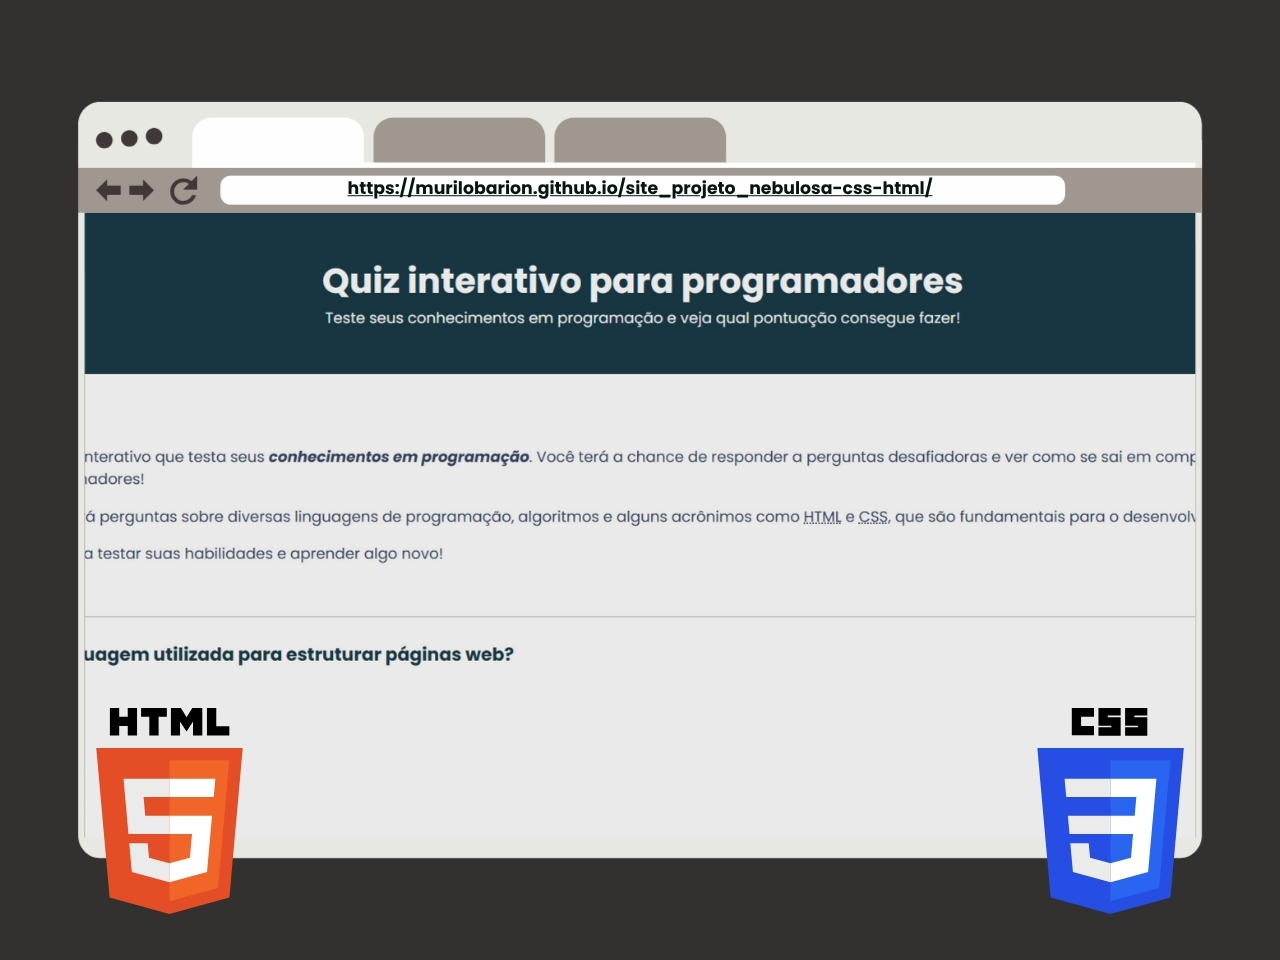
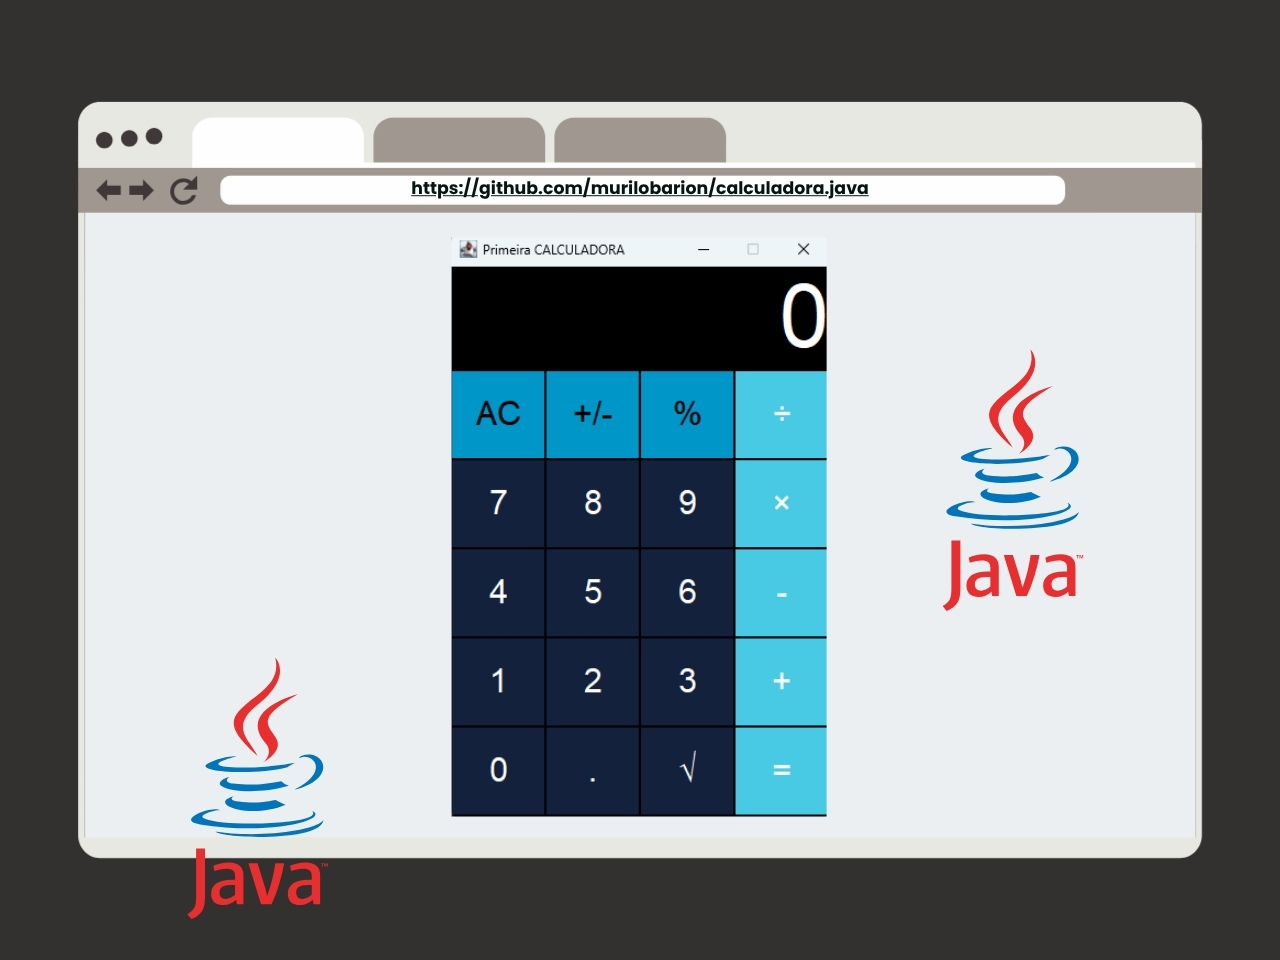
Atualização do portifolio

diff --git a/index.html b/index.html
@@ -15,7 +15,7 @@
 	<body>
 		<header>
 			<!--Barra nav-->
-			<a href="#inicio" class="logo">Murilo.dev</a>
+			<a href="#inicio" class="logo">dev.barion</a>
 			<nav>
 				<ul>
 					<li><a href="#inicio">Home</a></li>
@@ -69,7 +69,7 @@
 					<div class="container-foto">
 						<img
 							class="foto-perfil"
-							src="img/foto1.jpg"
+							src="img/foto.jpg"
 							alt="Foto de perfil de Murilo Pereira Barion"
 						/>
 					</div>
@@ -94,7 +94,7 @@
 						E aí! Sou o Murilo, um entusiasta da tecnologia movido pela curiosidade e pela vontade de transformar ideias em realidade. Encontrei na programação uma forma de unir lógica e criatividade — criando soluções, experimentando possibilidades e aprendendo com os bugs que surgem pelo caminho.
 					</p>
 					<p>
-						Atualmente, dedico-me a aprimorar minhas habilidades em Python, C++ e desenvolvimento web, explorando desde o backend até a construção de interfaces funcionais e modernas. Meu objetivo é evoluir constantemente como desenvolvedor e construir projetos que unam eficiência, inovação e propósito.
+						Atualmente, dedico-me a aprimorar minhas habilidades em Python, Java, C++ e desenvolvimento web, explorando desde o backend até a construção de interfaces funcionais e modernas. Meu objetivo é evoluir constantemente como desenvolvedor e construir projetos que unam eficiência, inovação e propósito.
 					</p>
 					<a
 						href="pdf/meu_curriculo.pdf"
@@ -119,6 +119,10 @@
 					<article class="card-habilidade">
 						<i class="fab fa-python icone"></i>
 						<h3>Python</h3>
+					</article>
+					<article class="card-habilidade">
+						<i class="fab fa-java icone"></i>
+						<h3>Java</h3>
 					</article>
 					<article class="card-habilidade">
 						<i class="fab fa-html5 icone"></i>
@@ -159,10 +163,10 @@
     <div class="container-projetos">
         
         <article class="card-projeto">
-            <img src="img/projeto1.jpg" alt="Preview do projeto Relogio Digital" />
+            <img src="img/projeto1.jpg" alt="Preview do Projeto M.U.R.I.L.O." />
             <div class="overlay-projeto"> 
-                <h3>Relogio Digital</h3>
-                <a href="https://murilobarion.github.io/relogio_digital-html-css/" target="_blank" class="btn-projeto">Ver Projeto</a>
+                <h3>Projeto M.U.R.I.L.O.</h3>
+                <a href="https://projetomurilo.space/" target="_blank" class="btn-projeto">Ver Projeto</a>
             </div>
         </article>
 
@@ -175,10 +179,10 @@
         </article>
 
         <article class="card-projeto">
-            <img src="img/projeto3.jpg" alt="Preview do projeto Quiz Programadores" />
+            <img src="img/projeto3.jpg" alt="Preview do projeto de Calculadora em Java" />
             <div class="overlay-projeto">
-                <h3>Quiz Interativo</h3>
-                <a href="https://murilobarion.github.io/site_quiz/" target="_blank" class="btn-projeto">Ver Projeto</a>
+                <h3>Calculadora</h3>
+                <a href="https://github.com/murilobarion/calculadora.java" target="_blank" class="btn-projeto">Ver Projeto</a>
             </div>
         </article>
 
